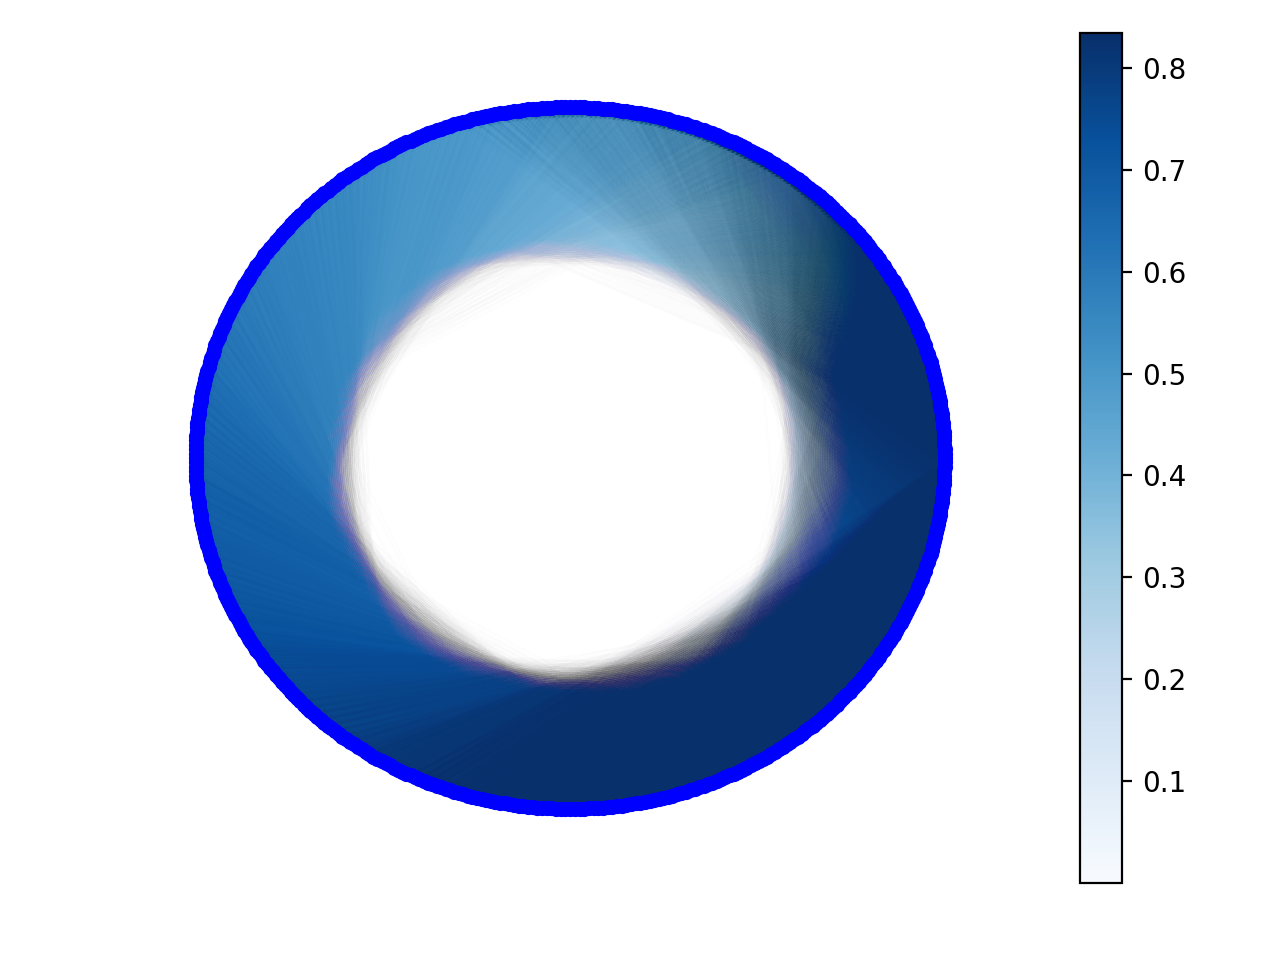
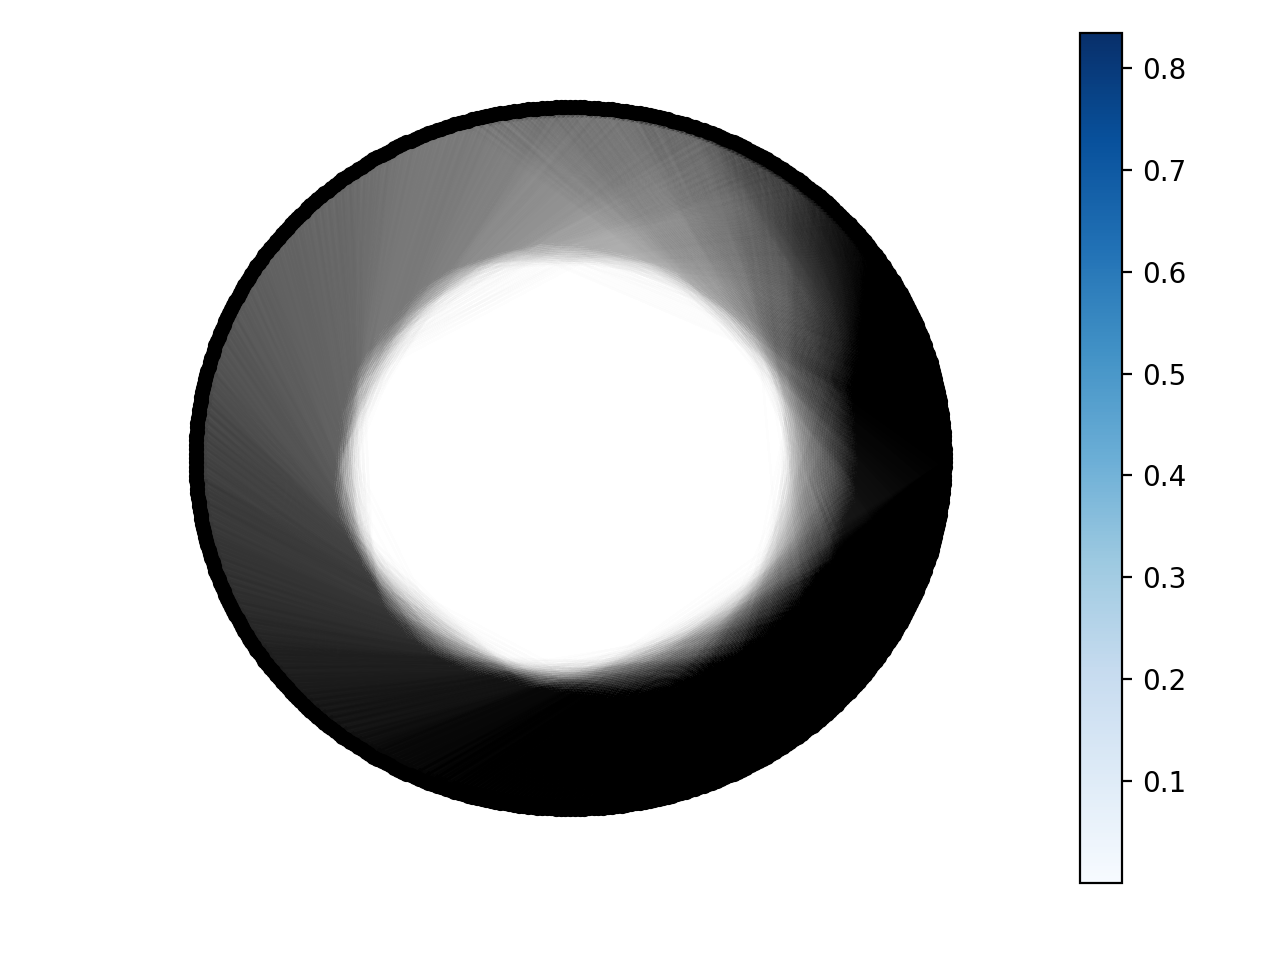
Updated graphs without figure size restriction

Changed region(s): [[0.125, 0.0938, 0.75, 0.875]]

diff --git a/network_visualizer.py b/network_visualizer.py
@@ -5,7 +5,7 @@ import matplotlib as mp
 import os 
 from multiprocessing import pool as Pool
 from matplotlib.pyplot import figure
-figure(num=None,figsize=(3.5,3.5),dpi=200,facecolor='w',edgecolor='k')
+#figure(num=None,figsize=(3.5,3.5),dpi=200,facecolor='w',edgecolor='k')
 
 CWD = os.getcwd()
 FILE_DIR = CWD + '/500_Diffusion_data/'
@@ -21,8 +21,8 @@ def visualizer(file_name, order):
         edge_colors = range(2,M+2)
         e = graph.edges()
         edge_alphas = [(graph[u][v]['weight']/max_val) for u,v in e]
-        nodes = nx.draw_networkx_nodes(graph,layout,node_size=20,node_color='blue')
-        edges = nx.draw_networkx_edges(graph,layout,arrows=True,node_size=20,edge_cmap=plt.cm.Blues,width=1,arrowsize=2,arrowstyle='->',edge_color=edge_colors)
+        nodes = nx.draw_networkx_nodes(graph,layout,node_size=20,node_color='black')
+        edges = nx.draw_networkx_edges(graph,layout,arrows=True,node_size=20,edge_cmap=plt.cm.Greys,width=1,arrowsize=2,arrowstyle='->',edge_color=edge_colors)
         for i in range(M):
             edges[i].set_alpha(edge_alphas[i])
         pc = mp.collections.PatchCollection(edges,cmap=plt.cm.Blues)
